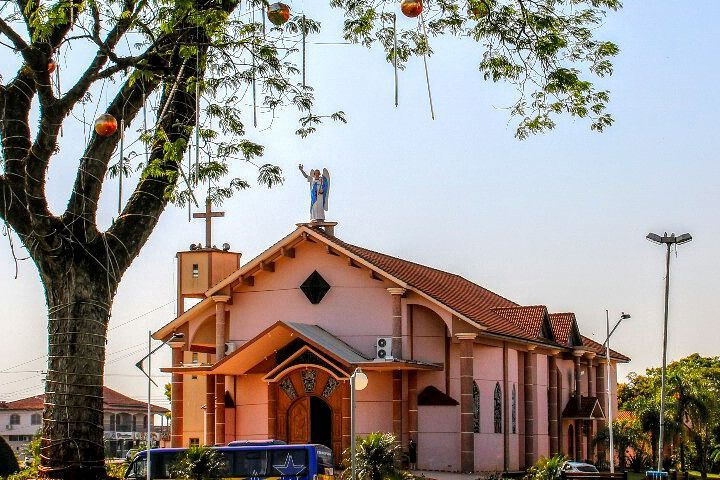
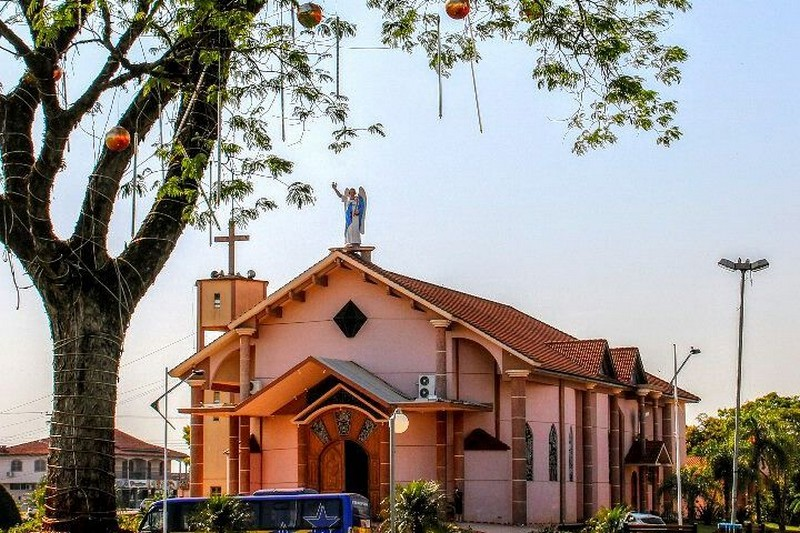
a

diff --git a/index.html b/index.html
@@ -113,24 +113,24 @@ title.addEventListener("keyup", function(event) {
             </ol>
             <div class="carousel-inner" id="home">
                 <div class="carousel-item active">
-                    <img class="d-block w-100 fotos" src="imagens/foto1.jpg" alt="First slide">
+                    <img class="d-block w-100 fotos" src="imagens/foto-1.jpg" alt="First slide">
                     <div class="carousel-caption d-none d-md-block">
                         <h3>Ametista Do Sul</h3>
                         <p>Pôr do sol visto da Rádio Cristal FM</p>
                     </div>
                 </div>
                 <div class="carousel-item">
-                    <img class="d-block w-100" src="imagens/foto2.jpeg" alt="Second slide">
+                    <img class="d-block w-100" src="imagens/foto-2.jpg" alt="Second slide">
                     <div class="carousel-caption d-none d-md-block">
                         <h3>Igreja Matriz</h3>
                         <p>Igreja Matriz a noite</p>
                     </div>
                 </div>
                 <div class="carousel-item">
-                    <img class="d-block w-100" src="imagens/foto3.jpg" alt="Third slide">
+                    <img class="d-block w-100" src="imagens/foto-3.jpg" alt="Third slide">
                     <div class="carousel-caption d-none d-md-block">
                         <h3>Igreja Matriz</h3>
-                        <p>Igreja Matriz a noite</p>
+                        <p>Igreja Matriz durante o dia</p>
                     </div>
                 </div>
             </div>

diff --git a/galeria/anthony-gonzzati/index.html b/galeria/anthony-gonzzati/index.html
@@ -101,7 +101,7 @@ title.addEventListener("keyup", function(event) {
     <h3 style="color: white;">Anthony Gonzzati</h3><br>
     <p style="color: white;">16 de março de 2018</p><br>
     <h5><i><b>"A criança é a alegria como o raio de sol e estímulo como a esperança"</b></i></h5><br>
-    <p style="color: black">É enorme a gratificação de ter fotografado a pequeno Anthony, e eternizar com imagens sua espontaneidade e energia. </p>
+    <p style="color: black">É enorme a gratificação de ter fotografado o pequeno Anthony, e eternizar com imagens sua espontaneidade e energia. </p>
   </div>
 <script>
     $(document).keyup(function(event){

diff --git a/galeria/kaueli-cleiton/index.html b/galeria/kaueli-cleiton/index.html
@@ -1,7 +1,7 @@
 <!DOCTYPE html>
 <html>
 <head>
-	<title>Fotos de Kaueli i Cleiton</title>
+	<title>Fotos de Kaueli & Cleiton</title>
 		        <meta name='viewport' content='width=device-width, initial-scale=1'/>
 	  <!-- Meta tags necessárias -->
         <meta charset="utf-8">
